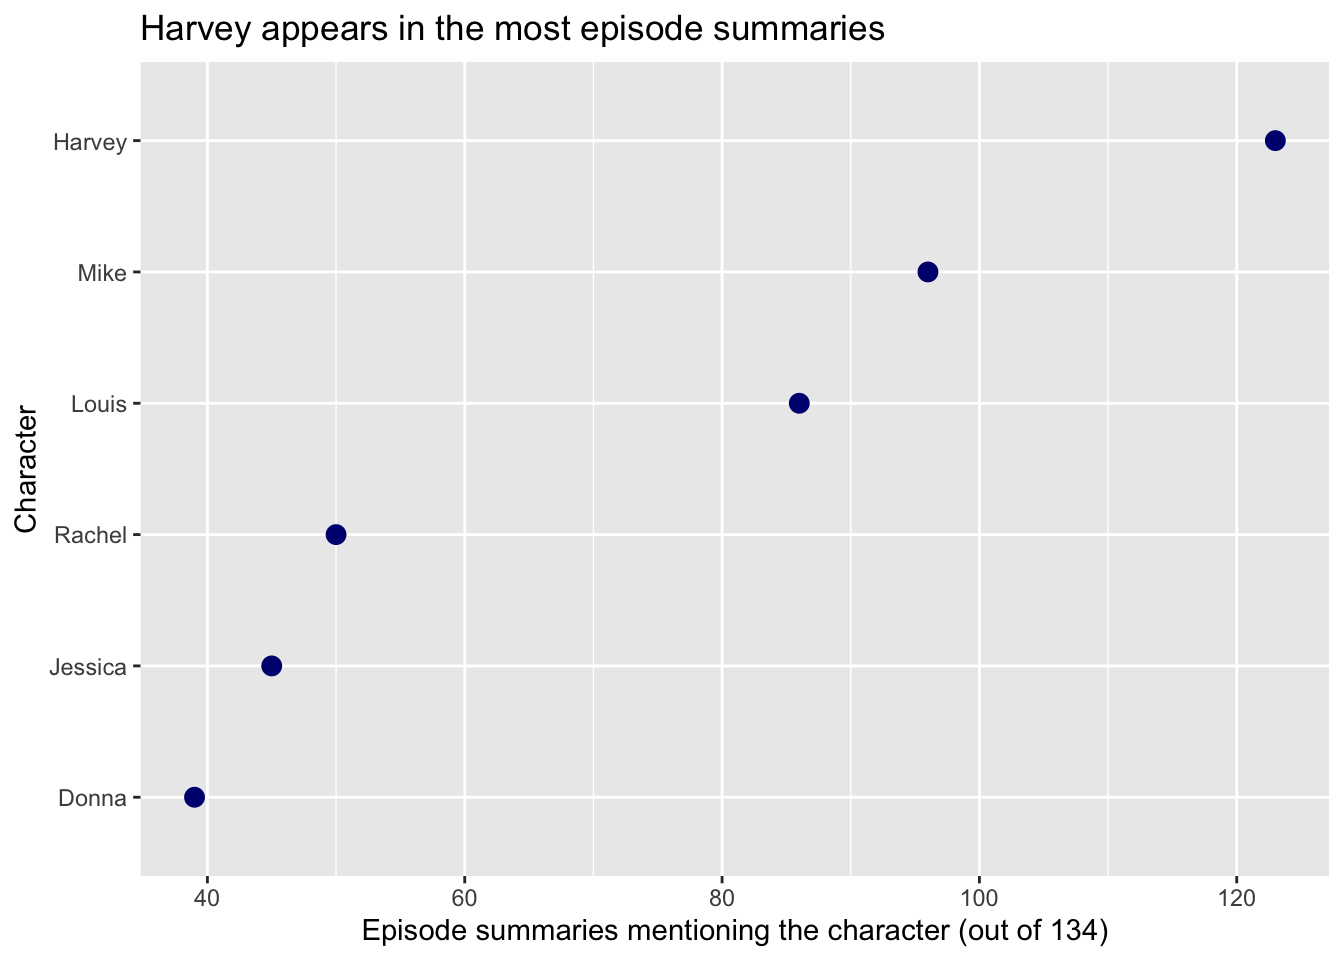
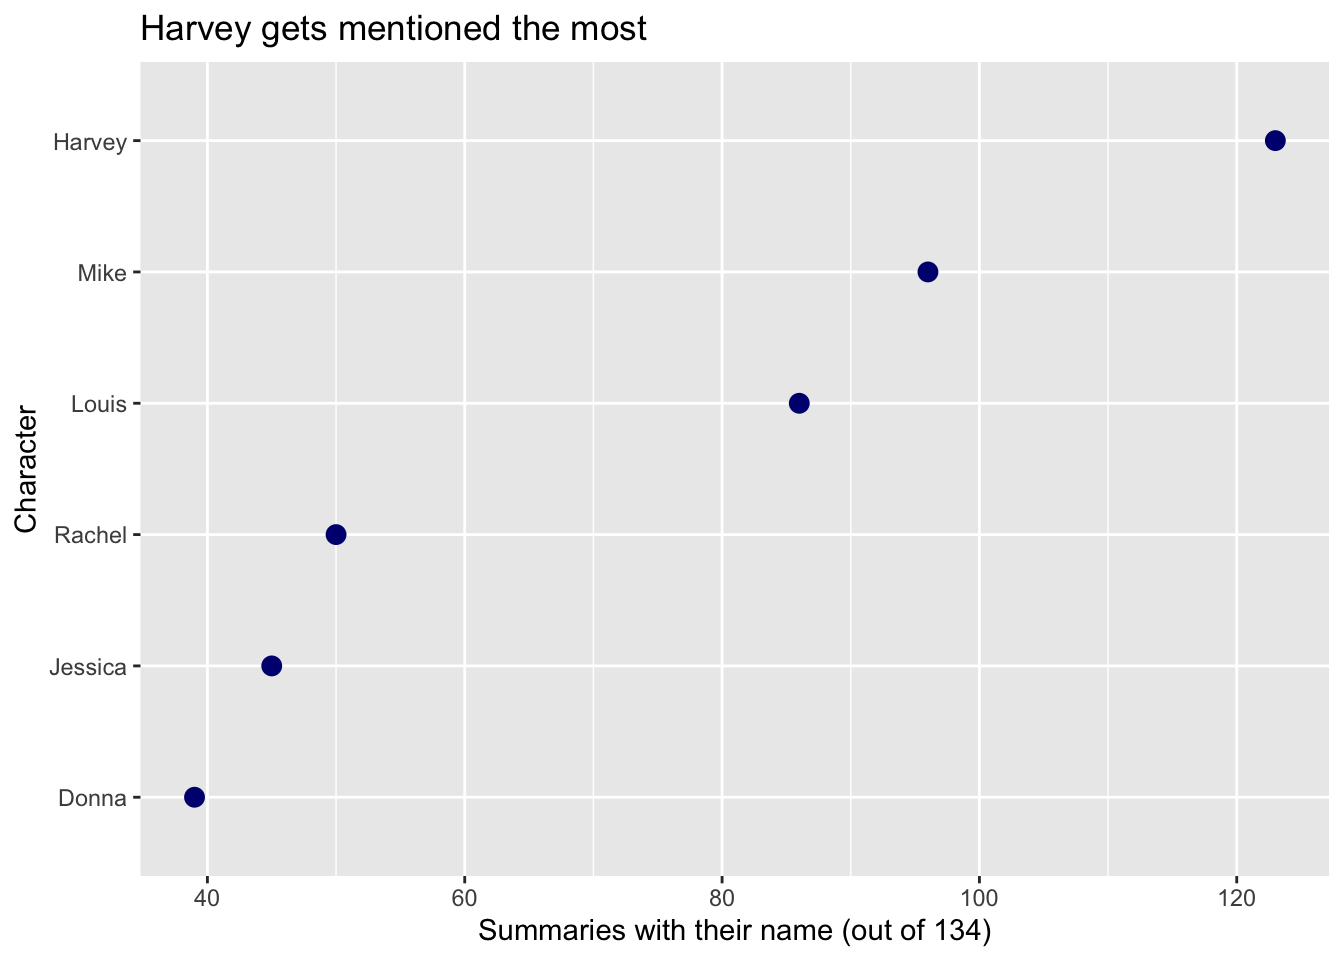
updated!

Changed region(s): [[0.2812, 0.9375, 0.75, 1.0], [0.1875, 0.0, 0.6562, 0.0625], [0.7812, 0.9375, 0.8125, 1.0]]

diff --git a/docs/suits.html b/docs/suits.html
@@ -187,10 +187,10 @@ pre > code.sourceCode > span > a:first-child::before { text-decoration: underlin
 </header>
 
 
-<p>Which characters appear most often in Suits episode summaries, and how do mentions change by season?</p>
-<p>The data contain 134 TVmaze episode summaries across nine seasons. Each character counts once per summary when their first name appears. These counts measure mentions in summaries, not screen time.</p>
-<section id="prepare-the-data" class="level2">
-<h2 class="anchored" data-anchor-id="prepare-the-data">Prepare the data</h2>
+<p>Who gets mentioned the most in Suits episode summaries? Does that change from season to season?</p>
+<p>This project uses 134 episode summaries from TVmaze, covering all nine seasons. I checked for six characters by first name. A name counts once per summary, even if it shows up more than once. This tells us who the summaries mention. It doesn’t tell us how much screen time they get.</p>
+<section id="get-the-data-ready" class="level2">
+<h2 class="anchored" data-anchor-id="get-the-data-ready">Get the data ready</h2>
 <div class="cell">
 <div class="code-copy-outer-scaffold"><div class="sourceCode cell-code" id="cb1"><pre class="sourceCode r code-with-copy"><code class="sourceCode r"><span id="cb1-1"><a href="#cb1-1" aria-hidden="true" tabindex="-1"></a><span class="fu">library</span>(tidyverse)</span>
 <span id="cb1-2"><a href="#cb1-2" aria-hidden="true" tabindex="-1"></a></span>
@@ -223,8 +223,8 @@ pre > code.sourceCode > span > a:first-child::before { text-decoration: underlin
 <span id="cb2-17"><a href="#cb2-17" aria-hidden="true" tabindex="-1"></a>  )</span></code></pre></div><button title="Copy to Clipboard" class="code-copy-button"><i class="bi"></i></button></div>
 </div>
 </section>
-<section id="which-characters-appear-most-often" class="level2">
-<h2 class="anchored" data-anchor-id="which-characters-appear-most-often">Which characters appear most often?</h2>
+<section id="who-gets-mentioned-the-most" class="level2">
+<h2 class="anchored" data-anchor-id="who-gets-mentioned-the-most">Who gets mentioned the most?</h2>
 <div class="cell">
 <div class="code-copy-outer-scaffold"><div class="sourceCode cell-code" id="cb3"><pre class="sourceCode r code-with-copy"><code class="sourceCode r"><span id="cb3-1"><a href="#cb3-1" aria-hidden="true" tabindex="-1"></a>overall <span class="ot">&lt;-</span> mentions <span class="sc">|&gt;</span></span>
 <span id="cb3-2"><a href="#cb3-2" aria-hidden="true" tabindex="-1"></a>  <span class="fu">group_by</span>(character) <span class="sc">|&gt;</span></span>
@@ -234,8 +234,8 @@ pre > code.sourceCode > span > a:first-child::before { text-decoration: underlin
 <span id="cb3-6"><a href="#cb3-6" aria-hidden="true" tabindex="-1"></a>                    <span class="at">y =</span> <span class="fu">fct_reorder</span>(character, episodes))) <span class="sc">+</span></span>
 <span id="cb3-7"><a href="#cb3-7" aria-hidden="true" tabindex="-1"></a>  <span class="fu">geom_point</span>(<span class="at">color =</span> <span class="st">"navy"</span>, <span class="at">size =</span> <span class="dv">3</span>) <span class="sc">+</span></span>
 <span id="cb3-8"><a href="#cb3-8" aria-hidden="true" tabindex="-1"></a>  <span class="fu">labs</span>(</span>
-<span id="cb3-9"><a href="#cb3-9" aria-hidden="true" tabindex="-1"></a>    <span class="at">title =</span> <span class="st">"Harvey appears in the most episode summaries"</span>,</span>
-<span id="cb3-10"><a href="#cb3-10" aria-hidden="true" tabindex="-1"></a>    <span class="at">x =</span> <span class="st">"Episode summaries mentioning the character (out of 134)"</span>,</span>
+<span id="cb3-9"><a href="#cb3-9" aria-hidden="true" tabindex="-1"></a>    <span class="at">title =</span> <span class="st">"Harvey gets mentioned the most"</span>,</span>
+<span id="cb3-10"><a href="#cb3-10" aria-hidden="true" tabindex="-1"></a>    <span class="at">x =</span> <span class="st">"Summaries with their name (out of 134)"</span>,</span>
 <span id="cb3-11"><a href="#cb3-11" aria-hidden="true" tabindex="-1"></a>    <span class="at">y =</span> <span class="st">"Character"</span></span>
 <span id="cb3-12"><a href="#cb3-12" aria-hidden="true" tabindex="-1"></a>  )</span></code></pre></div><button title="Copy to Clipboard" class="code-copy-button"><i class="bi"></i></button></div>
 <div class="cell-output-display">
@@ -246,10 +246,10 @@ pre > code.sourceCode > span > a:first-child::before { text-decoration: underlin
 </div>
 </div>
 </div>
-<p>Harvey gets mentioned the most, showing up in 123 of the 134 summaries. Mike comes next with 96, then Louis with 86. Rachel has 50, Jessica has 45, and Donna has 39. Some characters are in the show for more seasons than others, so they have more chances to be mentioned.</p>
+<p>Harvey is first with 123 of the 134 summaries. Mike is next with 96, followed by Louis with 86. Rachel has 50, Jessica has 45, and Donna has 39. Some characters stay on the show longer, which gives them more chances to show up in a summary.</p>
 </section>
-<section id="how-do-mentions-change-by-season" class="level2">
-<h2 class="anchored" data-anchor-id="how-do-mentions-change-by-season">How do mentions change by season?</h2>
+<section id="does-this-change-by-season" class="level2">
+<h2 class="anchored" data-anchor-id="does-this-change-by-season">Does this change by season?</h2>
 <div class="cell">
 <div class="code-copy-outer-scaffold"><div class="sourceCode cell-code" id="cb4"><pre class="sourceCode r code-with-copy"><code class="sourceCode r"><span id="cb4-1"><a href="#cb4-1" aria-hidden="true" tabindex="-1"></a>by_season <span class="ot">&lt;-</span> mentions <span class="sc">|&gt;</span></span>
 <span id="cb4-2"><a href="#cb4-2" aria-hidden="true" tabindex="-1"></a>  <span class="fu">filter</span>(character <span class="sc">%in%</span> <span class="fu">c</span>(<span class="st">"Harvey"</span>, <span class="st">"Mike"</span>, <span class="st">"Louis"</span>)) <span class="sc">|&gt;</span></span>
@@ -266,9 +266,9 @@ pre > code.sourceCode > span > a:first-child::before { text-decoration: underlin
 <span id="cb4-13"><a href="#cb4-13" aria-hidden="true" tabindex="-1"></a>  <span class="fu">geom_line</span>() <span class="sc">+</span></span>
 <span id="cb4-14"><a href="#cb4-14" aria-hidden="true" tabindex="-1"></a>  <span class="fu">geom_point</span>() <span class="sc">+</span></span>
 <span id="cb4-15"><a href="#cb4-15" aria-hidden="true" tabindex="-1"></a>  <span class="fu">labs</span>(</span>
-<span id="cb4-16"><a href="#cb4-16" aria-hidden="true" tabindex="-1"></a>    <span class="at">title =</span> <span class="st">"Character mentions change across seasons"</span>,</span>
+<span id="cb4-16"><a href="#cb4-16" aria-hidden="true" tabindex="-1"></a>    <span class="at">title =</span> <span class="st">"Harvey, Mike, and Louis by season"</span>,</span>
 <span id="cb4-17"><a href="#cb4-17" aria-hidden="true" tabindex="-1"></a>    <span class="at">x =</span> <span class="st">"Season"</span>,</span>
-<span id="cb4-18"><a href="#cb4-18" aria-hidden="true" tabindex="-1"></a>    <span class="at">y =</span> <span class="st">"Episode summaries mentioning the character (%)"</span>,</span>
+<span id="cb4-18"><a href="#cb4-18" aria-hidden="true" tabindex="-1"></a>    <span class="at">y =</span> <span class="st">"Summaries with their name (%)"</span>,</span>
 <span id="cb4-19"><a href="#cb4-19" aria-hidden="true" tabindex="-1"></a>    <span class="at">color =</span> <span class="st">"Character"</span></span>
 <span id="cb4-20"><a href="#cb4-20" aria-hidden="true" tabindex="-1"></a>  )</span></code></pre></div><button title="Copy to Clipboard" class="code-copy-button"><i class="bi"></i></button></div>
 <div class="cell-output-display">
@@ -279,13 +279,13 @@ pre > code.sourceCode > span > a:first-child::before { text-decoration: underlin
 </div>
 </div>
 </div>
-<p>The seasons have different numbers of episodes, so this plot uses percentages. Harvey shows up in at least 80% of the summaries each season. The biggest change is Mike: he goes from being mentioned in every summary in season 7 to none in season 8, then two out of ten in season 9. Louis gets mentioned most often in seasons 6 and 7, appearing in 15 out of 16 summaries in each.</p>
+<p>Some seasons have more episodes than others, so I used percentages to compare them. Harvey is in at least 80% of the summaries in every season. Mike has the biggest drop. He is in every summary in season 7, none in season 8, and two of the ten in season 9. Louis is at his highest in seasons 6 and 7, with 15 of the 16 summaries in each.</p>
 </section>
-<section id="sources" class="level2">
-<h2 class="anchored" data-anchor-id="sources">Sources</h2>
+<section id="where-the-data-came-from" class="level2">
+<h2 class="anchored" data-anchor-id="where-the-data-came-from">Where the data came from</h2>
 <ul>
 <li>TVmaze contributors. (n.d.). Suits episode information and summaries. Retrieved October 14, 2026, from the <a href="https://www.tvmaze.com/shows/172/suits/episodes">episode list</a> and <a href="https://api.tvmaze.com/shows/172/episodes">episode data API</a>.</li>
-<li>The CSV is a reformatted subset of TVmaze data, shared under <a href="https://creativecommons.org/licenses/by-sa/4.0/">CC BY-SA 4.0</a>. See <a href="https://www.tvmaze.com/api#licensing">TVmaze’s licensing terms</a>.</li>
+<li>The CSV file uses selected fields from TVmaze’s data. The data are shared under <a href="https://creativecommons.org/licenses/by-sa/4.0/">CC BY-SA 4.0</a>. See <a href="https://www.tvmaze.com/api#licensing">TVmaze’s licensing terms</a>.</li>
 </ul>
 
 
